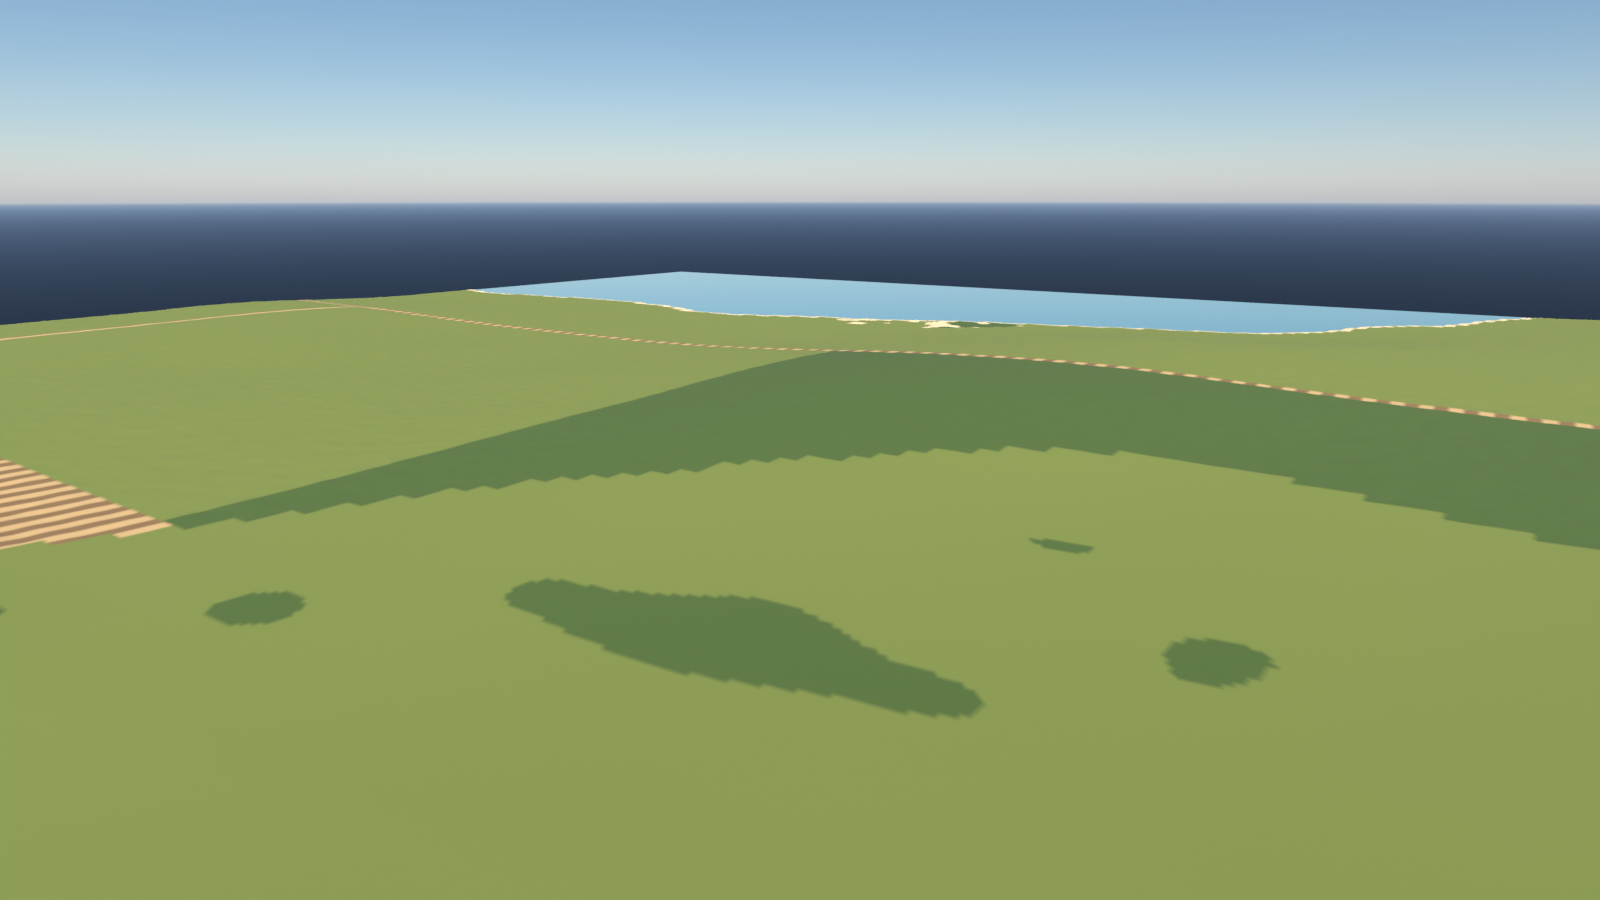
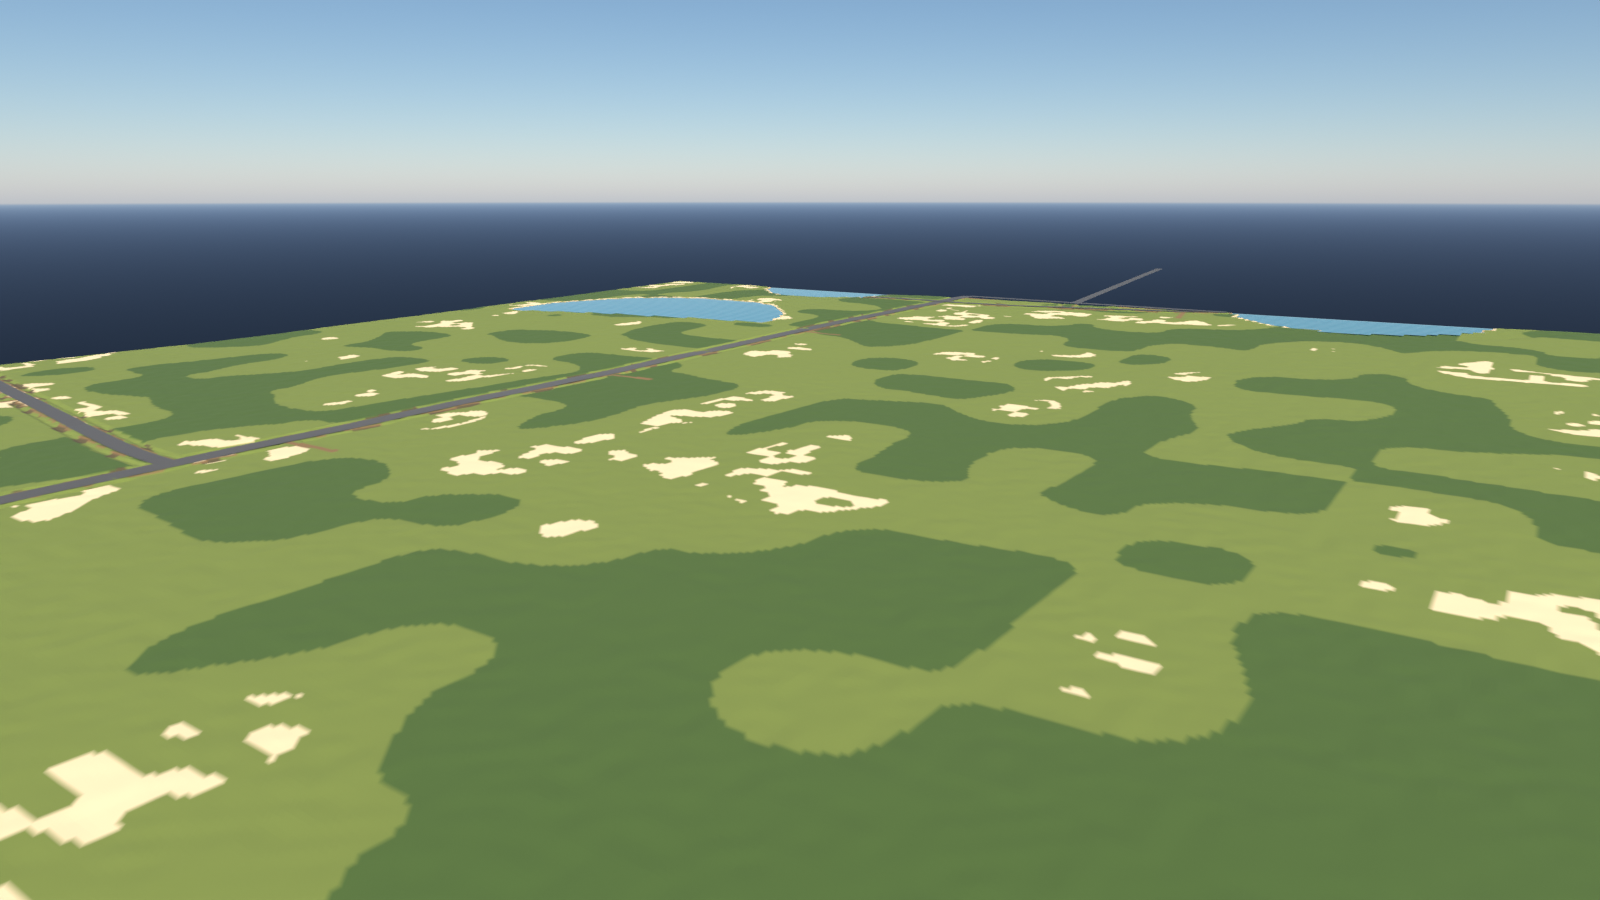
Terrain: roadside ditches and wetland canals, levees, seawalls, wet sand, worn verges, dirt tracks; preview close-ups
Claude-Session: https://claude.ai/code/session_01PWmpu53kThn7KFGp88wUgC

diff --git a/costa-verde/tools/blender/render_terrain.py b/costa-verde/tools/blender/render_terrain.py
@@ -55,6 +55,27 @@ def build(c):
                     wv.append(P(x0 + (k % nx + 0.5) * res, z0 + (k // nx + 0.5) * res, max(lv)))
                 face.append(idx[k])
             wf.append(face)
+    # grey road strips (Roblox: grey parts), on the ground or at deck height on bridges
+    def gh(x, z):
+        i = min(nx - 1, max(0, int((x - x0) / res)))
+        j = min(nz - 1, max(0, int((z - z0) / res)))
+        return c["h"][j * nx + i]
+    rv, rf = [], []
+    for ax, az, bx, bz, wdt, bridge in c.get("roads", []):
+        L = math.hypot(bx - ax, bz - az) or 1
+        px, pz = -(bz - az) / L * wdt / 2, (bx - ax) / L * wdt / 2
+        ha, hb = (max(gh(ax, az), 2) + 6, max(gh(bx, bz), 2) + 6) if bridge else (gh(ax, az) + 0.4, gh(bx, bz) + 0.4)
+        n = len(rv)
+        rv += [P(ax + px, az + pz, ha), P(bx + px, bz + pz, hb), P(bx - px, bz - pz, hb), P(ax - px, az - pz, ha)]
+        rf.append((n, n + 1, n + 2, n + 3))
+    rm = bpy.data.meshes.new("roads")
+    rm.from_pydata(rv, [], rf)
+    ro = bpy.data.objects.new("roads", rm)
+    bpy.context.collection.objects.link(ro)
+    m = bpy.data.materials.new("road")
+    m.use_nodes = True
+    m.node_tree.nodes["Principled BSDF"].inputs["Base Color"].default_value = (0.09, 0.09, 0.09, 1)
+    rm.materials.append(m)
     wm = bpy.data.meshes.new("water")
     wm.from_pydata(wv, [], wf)
     wo = bpy.data.objects.new("water", wm)
@@ -81,3 +102,15 @@ for name in sys.argv[1:] or ["keys", "wetland", "beach", "country"]:
     cx, cz, half = c["x0"] + c["nx"] * c["res"] / 2, c["z0"] + c["nz"] * c["res"] / 2, c["nx"] * c["res"] / 2
     camera(P(cx + half * 0.55, cz + half * 0.75, 320), P(cx - half * 0.05, cz - half * 0.1, 0), 24)
     render(f"terrain_{name}")
+    # close-up along a rural road, low like a player's view, to show ditches, verges and canals
+    rural = [r for r in c.get("roads", []) if r[4] <= 30 and not r[5] and math.hypot(r[2] - r[0], r[3] - r[1]) > 20
+             and abs(r[0] - cx) < half * 0.6 and abs(r[1] - cz) < half * 0.6]
+    if rural:
+        ax, az, bx, bz = rural[len(rural) // 2][:4]
+        L = math.hypot(bx - ax, bz - az)
+        ux, uz = (bx - ax) / L, (bz - az) / L
+        i = min(c["nx"] - 1, max(0, int((ax - c["x0"]) / c["res"])))
+        j = min(c["nz"] - 1, max(0, int((az - c["z0"]) / c["res"])))
+        g = c["h"][j * c["nx"] + i]
+        camera(P(ax - ux * 60 - uz * 30, az - uz * 60 + ux * 30, g + 22), P(ax + ux * 140, az + uz * 140, g), 30)
+        render(f"terrain_{name}_close")
